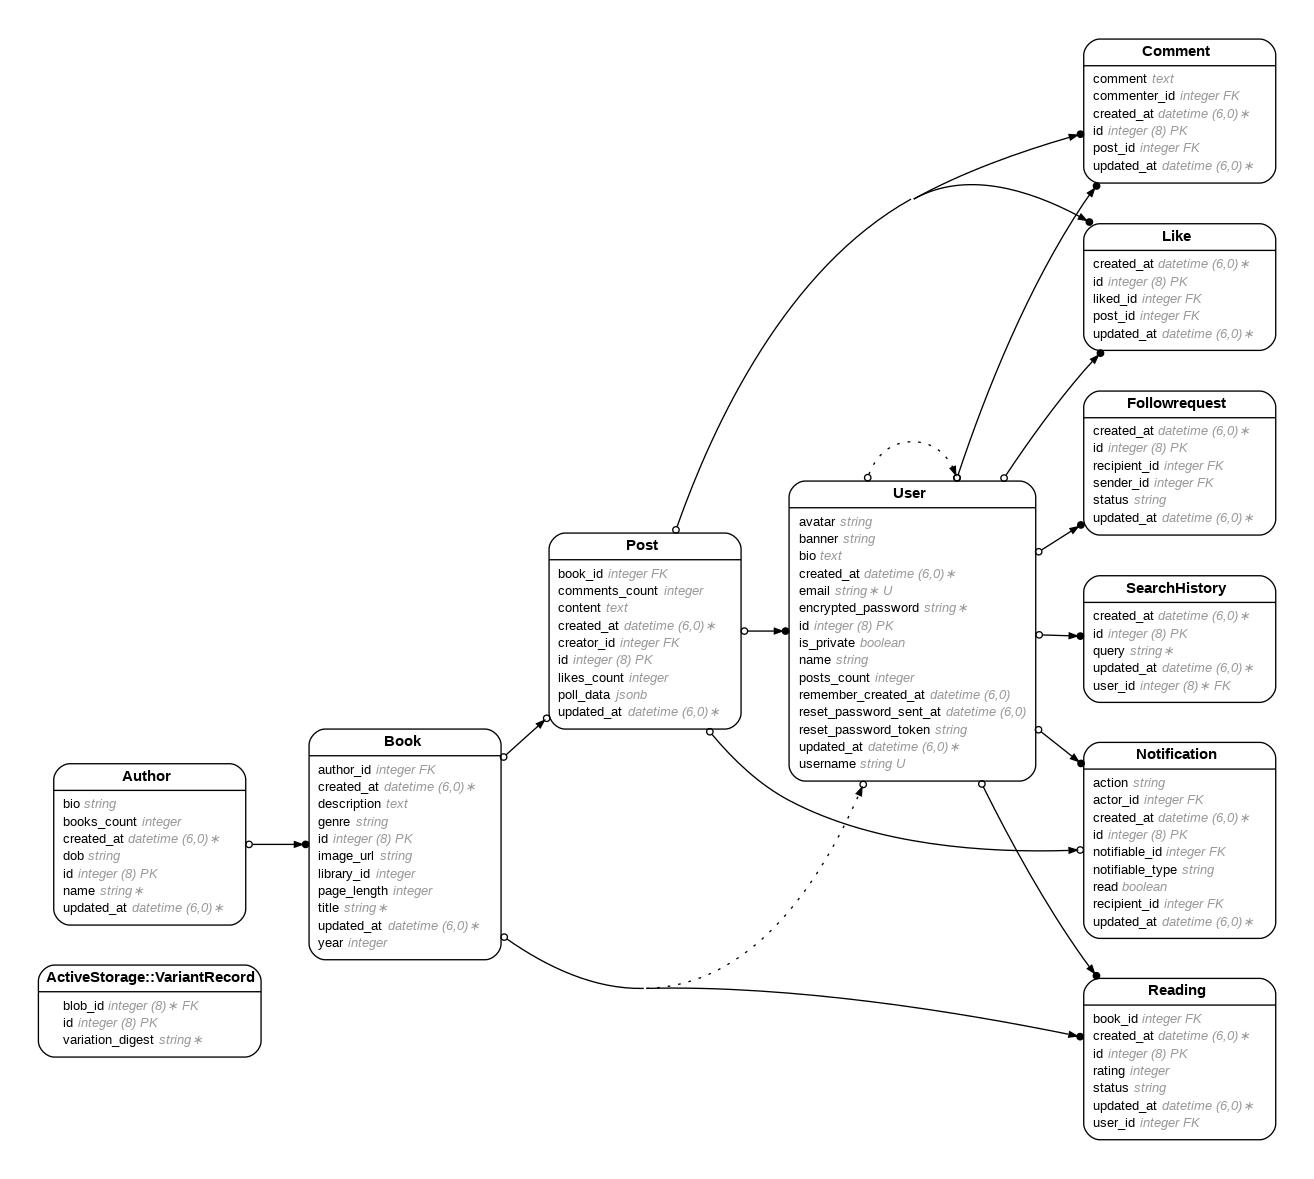
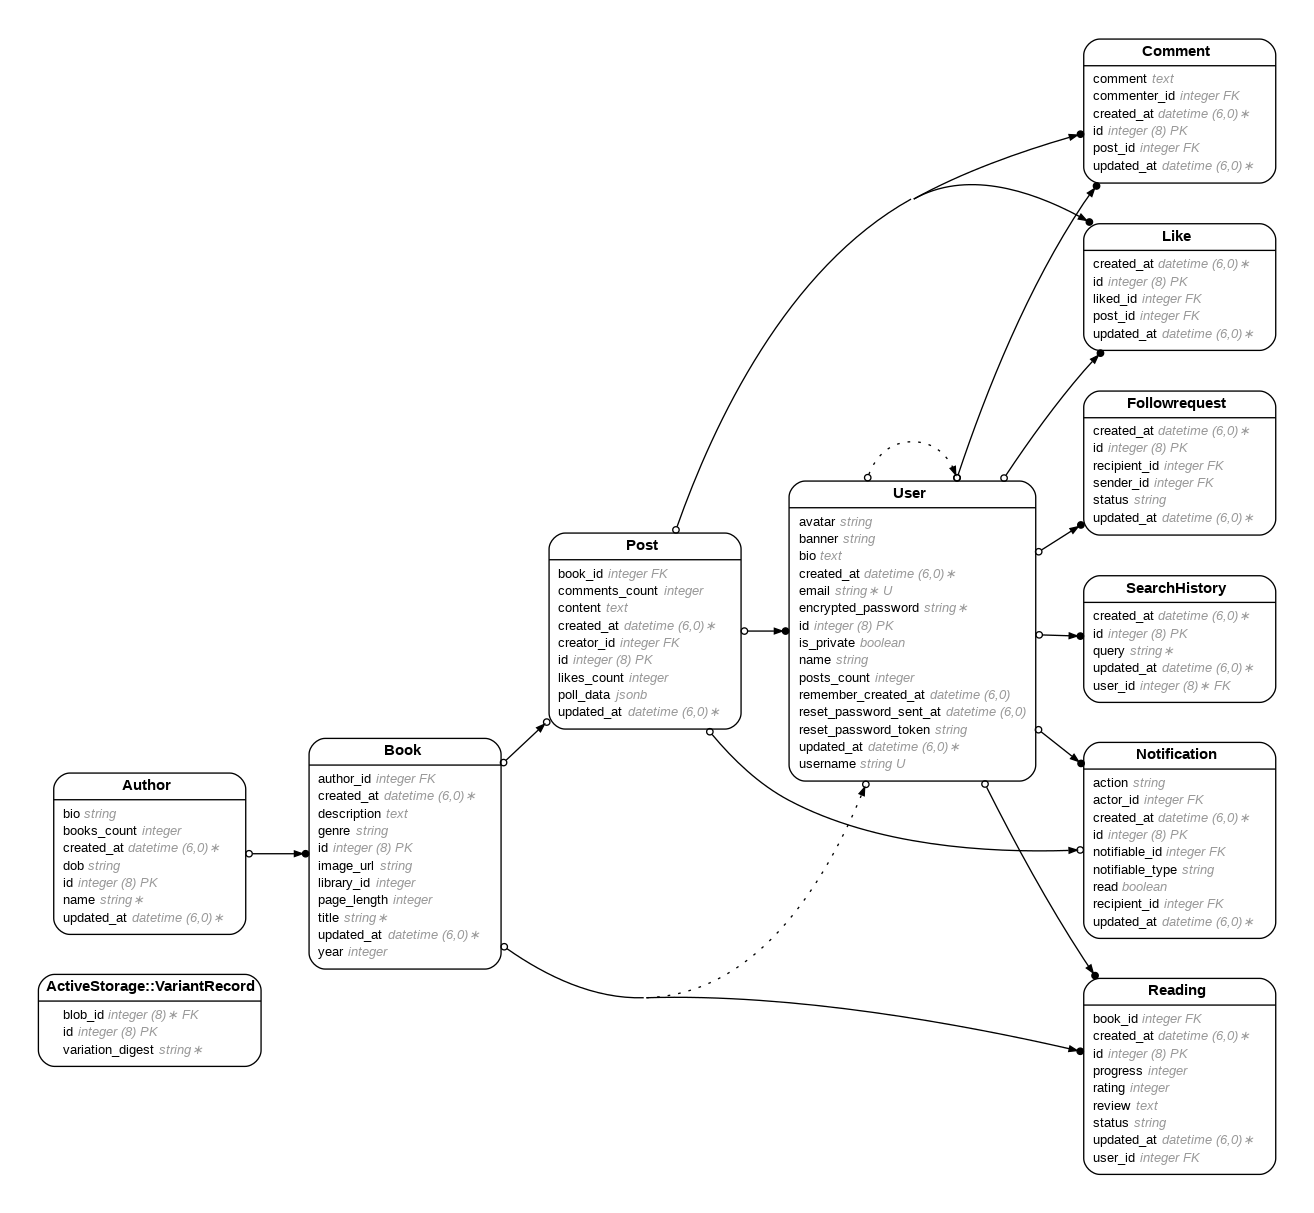
Migrated new tables

diff --git a/db/schema.rb b/db/schema.rb
@@ -10,7 +10,7 @@
 #
 # It's strongly recommended that you check this file into your version control system.
 
-ActiveRecord::Schema[7.1].define(version: 2025_07_16_000000) do
+ActiveRecord::Schema[7.1].define(version: 2025_07_16_000001) do
   # These are extensions that must be enabled in order to support this database
   enable_extension "plpgsql"
 
@@ -116,6 +116,8 @@ ActiveRecord::Schema[7.1].define(version: 2025_07_16_000000) do
     t.integer "rating"
     t.datetime "created_at", null: false
     t.datetime "updated_at", null: false
+    t.integer "progress"
+    t.text "review"
   end
 
   create_table "search_histories", force: :cascade do |t|

diff --git a/app/models/reading.rb b/app/models/reading.rb
@@ -3,7 +3,9 @@
 # Table name: readings
 #
 #  id         :bigint           not null, primary key
+#  progress   :integer
 #  rating     :integer
+#  review     :text
 #  status     :string
 #  created_at :datetime         not null
 #  updated_at :datetime         not null
